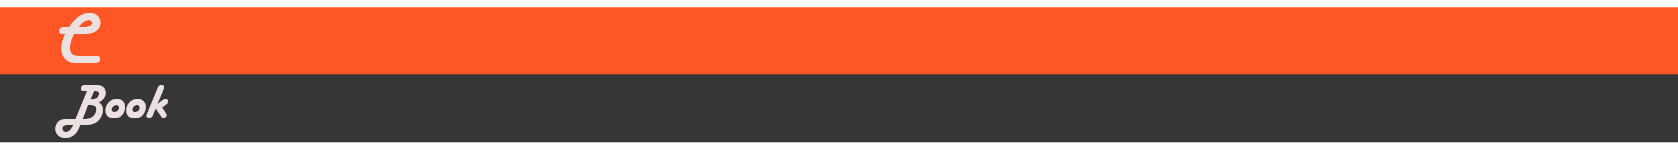
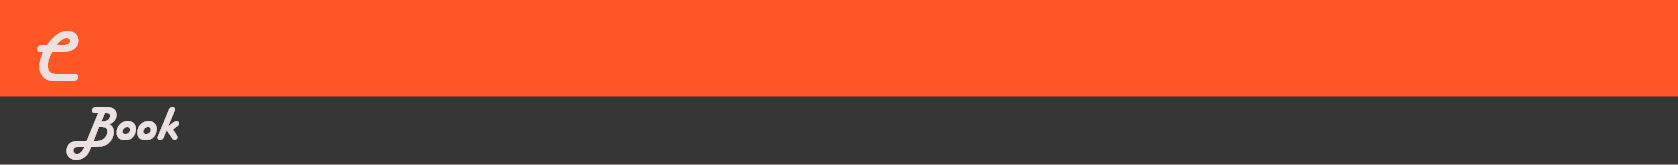
code

Changed region(s): [[0.0, 0.0839, 1.0, 1.0], [0.0, 0.0, 1.0, 0.0559]]

diff --git a/CBook/CBook/Content/Site.css b/CBook/CBook/Content/Site.css
@@ -48,7 +48,7 @@ div {
         }
 #logo-search {
     width: 100%;
-    min-height: 90px;
+    min-height: 66px;
     padding: 0 0 0 0;
     background-image: url('/image/banner.png');
 }
@@ -59,7 +59,7 @@ div {
     /*padding-top: 0;*/
     padding: 0 0 0 0;
     width: 250px;
-    height: 100px;
+    height: 100px; //*dsdsdsf*/
     position: relative;
    
 }
